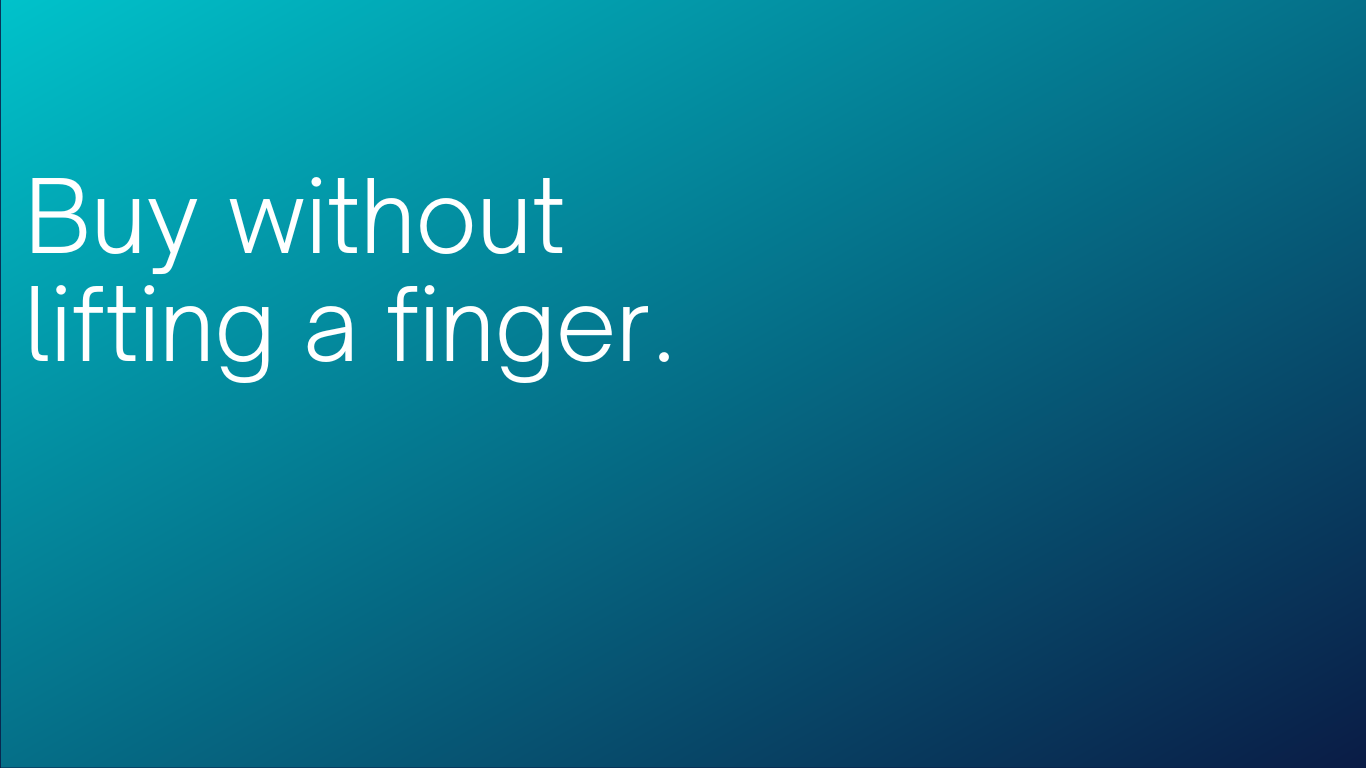
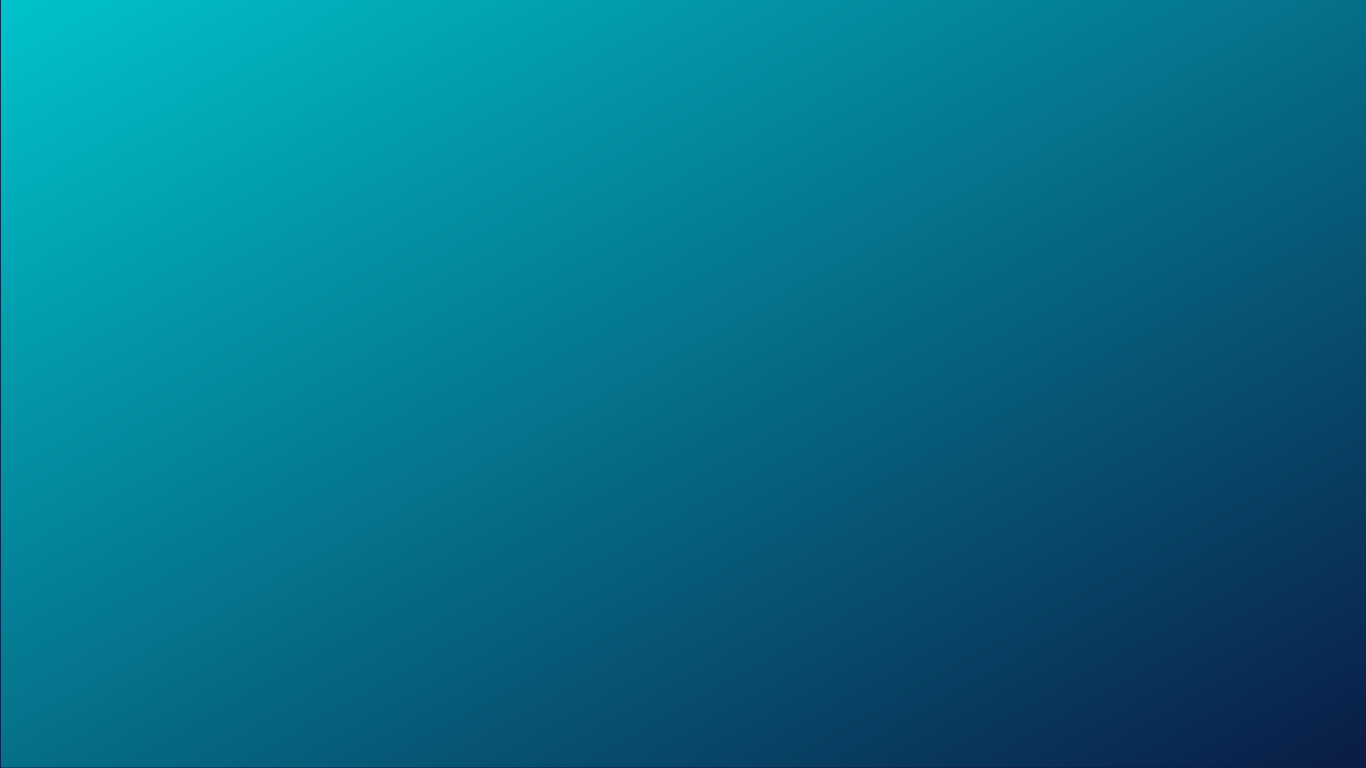
sua trang home

Changed region(s): [[0.0, 0.2188, 0.4612, 0.5]]

diff --git a/src/pages/home/home.css b/src/pages/home/home.css
@@ -7,15 +7,29 @@
     background-repeat: no-repeat; 
     background-size: cover;
 }
+.gioithieu{
+    width: 50%;
+}
+#slogan {
+    height: 50%;
+    width: 80%;
+    font-size: 120px;
+    color:white;
+    margin-top: 20%;
+    margin-left: 5%;
+}
 #bt_mua{
+    width: fit-content;
+    height: fit-content;
+    min-height: 100px;
     padding: 10px 75px;
     border: none;
     background-color: #00C4CC;
     border-radius: 50px;
     color: black;
     font-size: 40px;
-    margin-bottom: 100px;
-    margin-top: 65vh;
+    margin-bottom: auto;
+    margin-top: auto;
     margin-left: 120px;
     cursor: pointer;
 }
@@ -24,19 +38,20 @@
     scale: 1.1;
 }
 img{
-    width: 100px;
-    height: 100px;
+    width: 125px;
+    height: 125px;
 }
 .sp_noibat{
     height: 400px;
     display: grid;
     grid-template-columns: auto auto;
     grid-gap: 25px 30px;
-    margin-left: 30%;
+    margin-left: 3%;
     margin-top: 8%;
 }
 .sp_wrapper {
-    height: 100px;
+    height: fit-content;
+    width: fit-content;
     background-color: #41a4e2;
     display: flex;
     margin: 20px;
@@ -44,8 +59,7 @@ img{
     padding: 0%;
 }
 .sp_img {
-    width: 100px;
-    height: 100px;
+    height:125px;
     object-fit: cover;  
 }
 
@@ -62,4 +76,28 @@ img{
     line-height: 1.6;
     font-size: 16px;
     color: black;
+}
+@media screen and (max-width: 740px){
+    
+    .homebg{
+        display: flex;
+        width: 100%;
+        height: 100%;
+        background-image: url("bg_home.png"); 
+        background-repeat: no-repeat; 
+        background-size: cover;
+    }
+
+    .gioithieu{
+        width: 50%;
+    }
+    #slogan {
+        height: 50%;
+        width: 80%;
+        font-size: 60px;
+        color:white;
+        margin-top: 20%;
+        margin-left: 5%;
+    }
+
 }

diff --git a/src/pages/Home.jsx b/src/pages/Home.jsx
@@ -5,9 +5,15 @@ const Home = () => {
 	return (
 		<div >
             <div class = "homebg">
-                <button id="bt_mua">
-                    Shopping now
-                </button>
+                <div class="gioithieu">
+                    <div id="slogan">
+                        <span>Buy without lifting a finger.</span>
+                    </div>
+                    <button id="bt_mua">
+                        Shopping now
+                    </button>
+                </div>
+                
                 <div class="sp_noibat">
                     <div class="sp_wrapper" id ="sp1"> 
                         <img class="sp_img" src={anh} alt="" /> 
